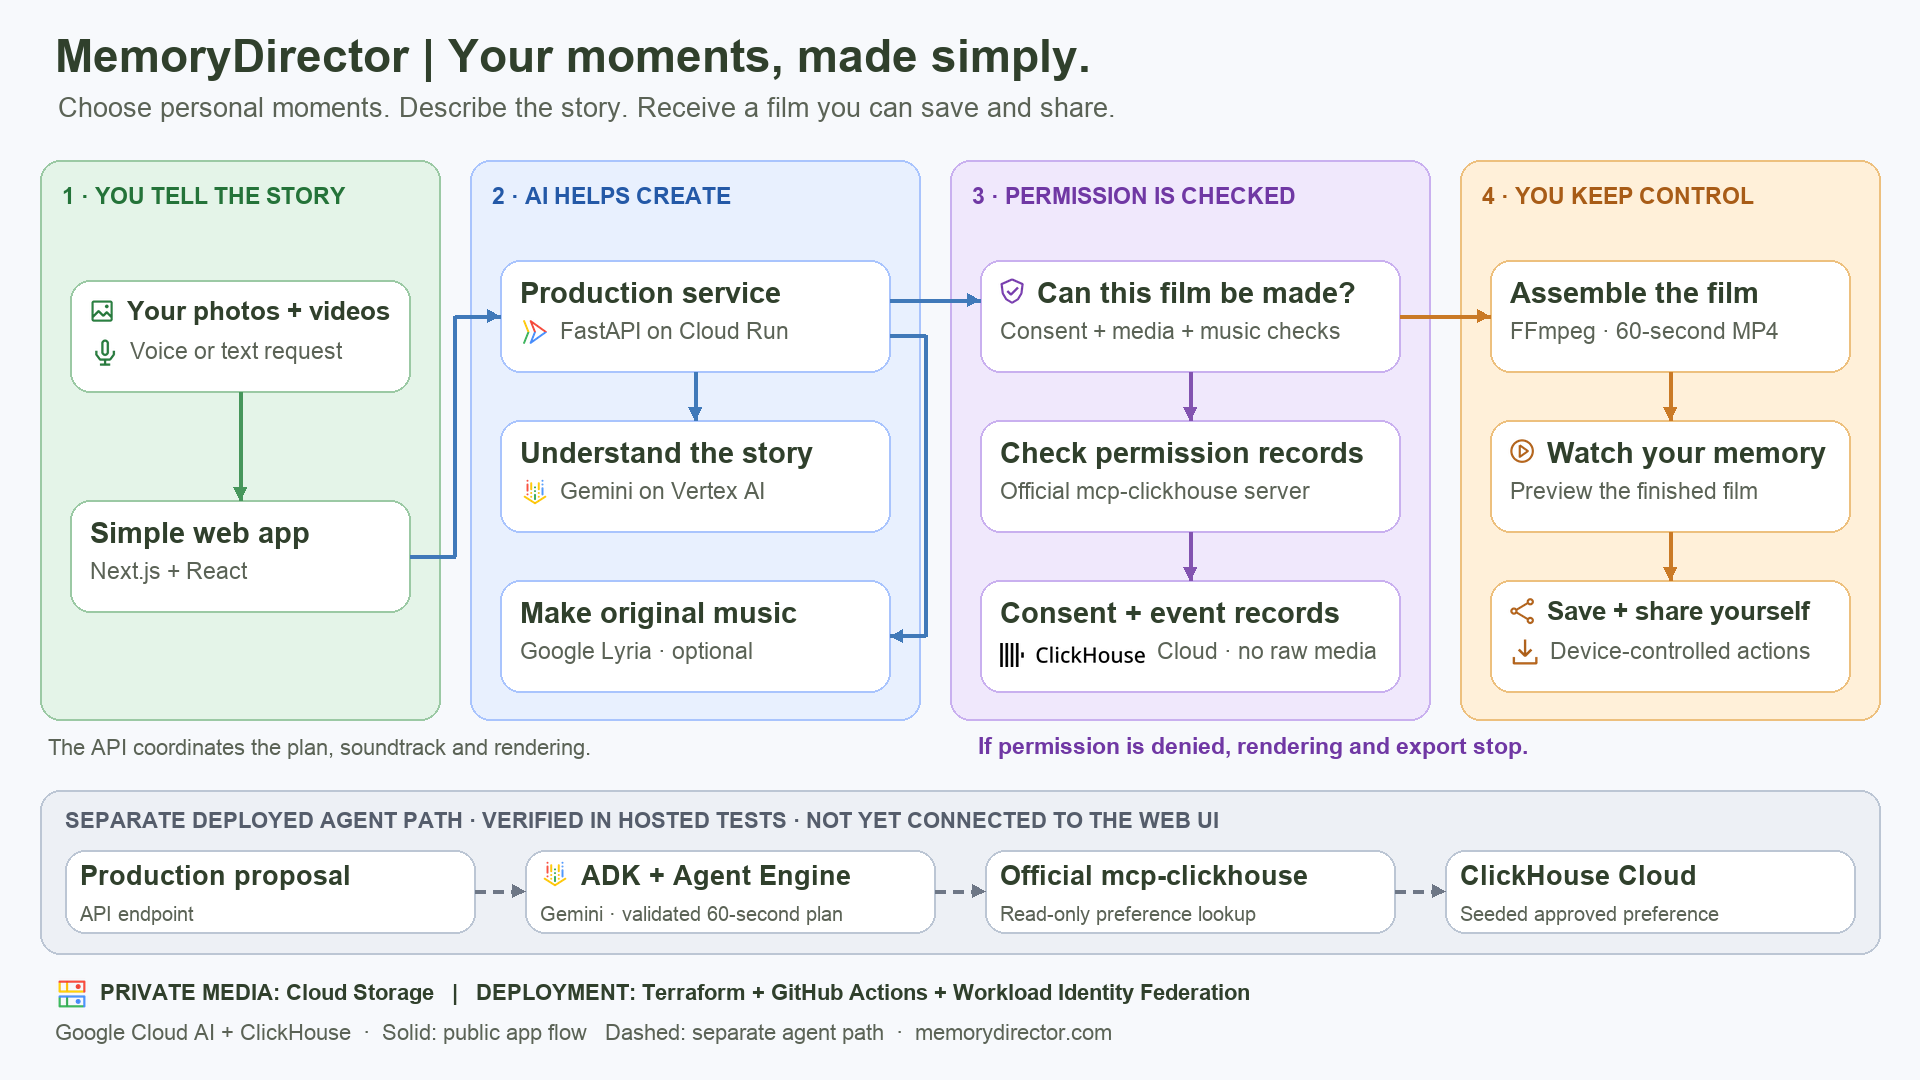
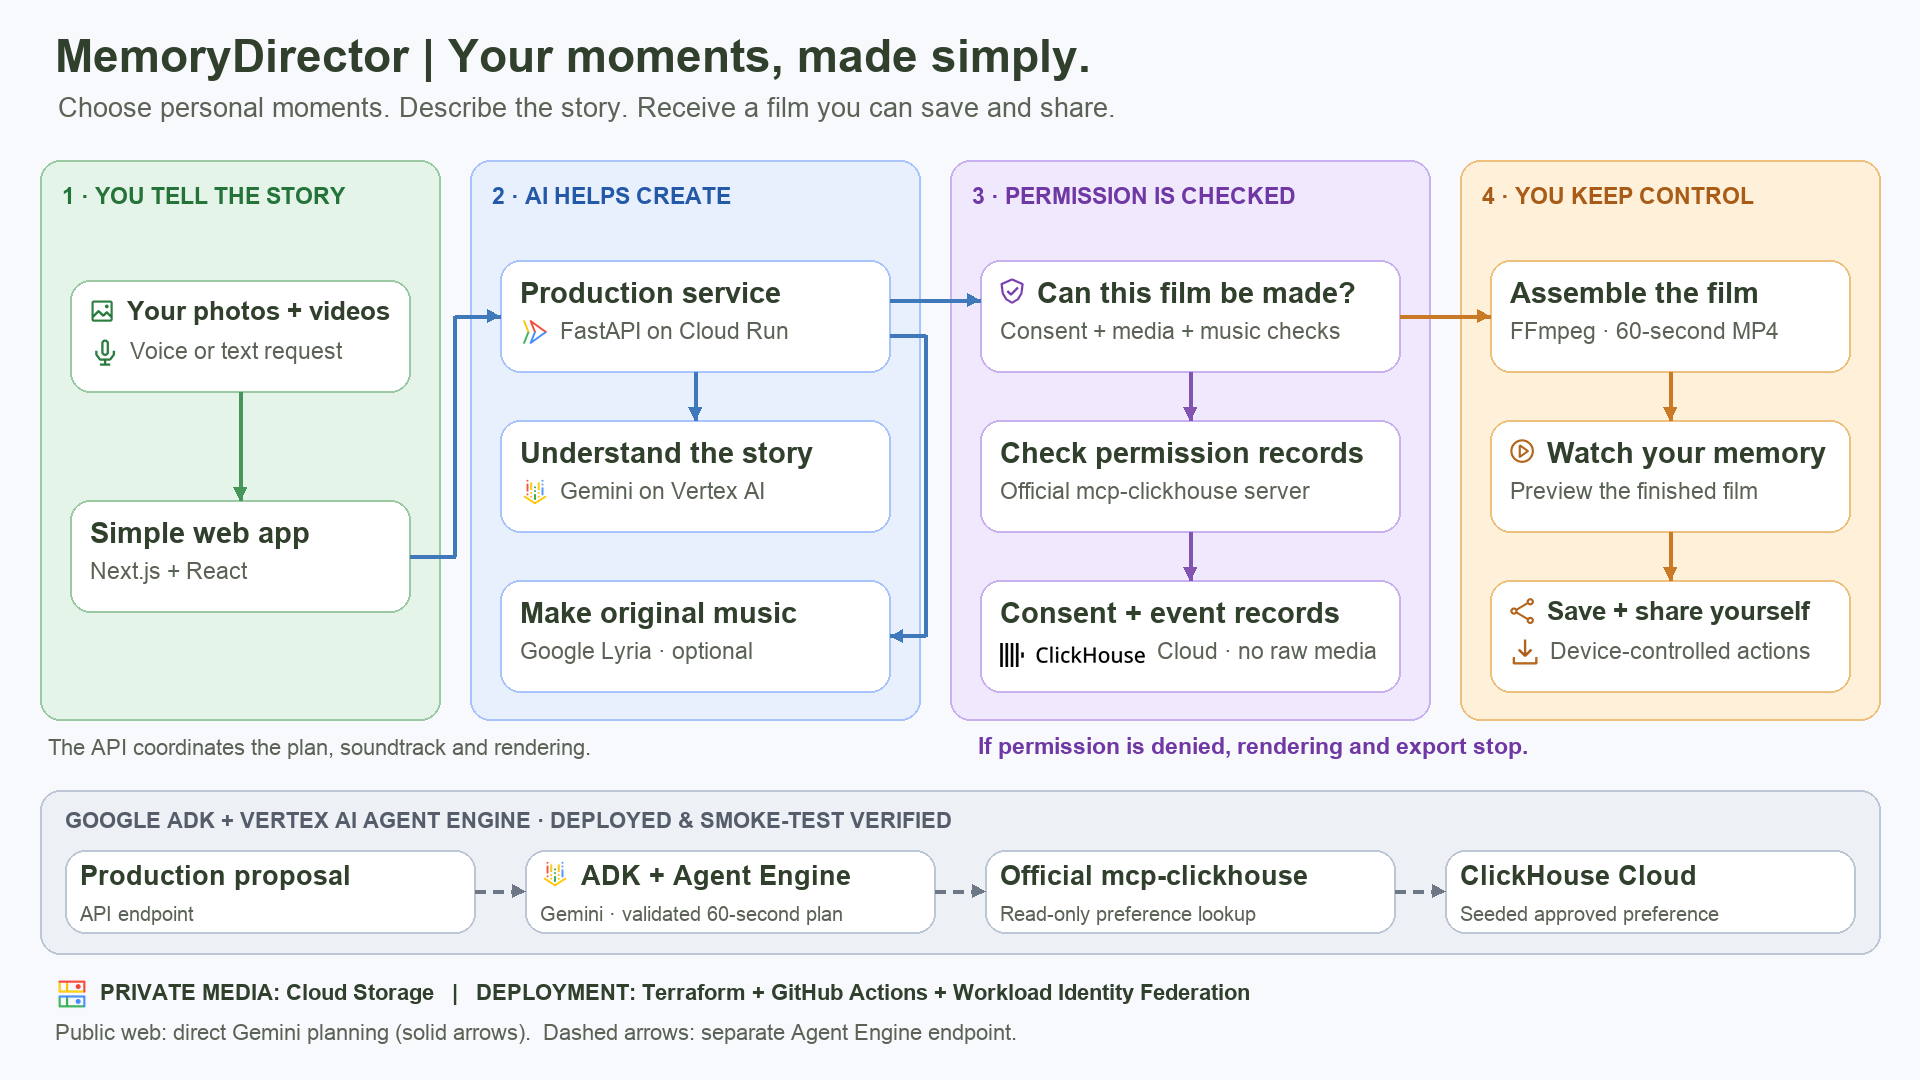
docs: sync latest architecture diagram and guide

Changed region(s): [[0.0312, 0.7333, 0.625, 0.7639], [0.0312, 0.9472, 0.5938, 0.9778]]

diff --git a/README.md b/README.md
@@ -41,8 +41,10 @@ Vertex AI supports media analysis and constrained storyboard planning. The API
 validates the plan before FFmpeg renders the selected source media, with optional
 original music from Google Lyria. Google Cloud AI is the product's only AI provider. The official ClickHouse MCP path checks selected-media
 consent evidence before rendering and again before export. The separately deployed
-ADK / Agent Engine planning endpoint is shown below the main flow; the current web
-interface does not call it.
+Google ADK / Vertex AI Agent Engine planning endpoint is shown below the main flow
+and is labelled **Deployed & smoke-test verified**. Solid arrows show the public
+web path; dashed arrows show the separate Agent Engine endpoint. The current web
+interface does not call that endpoint.
 
 [Read the architecture guide](docs/ARCHITECTURE.md) for the workflow, module
 responsibilities, data boundaries, and verified limitations, or

diff --git a/docs/ARCHITECTURE.md b/docs/ARCHITECTURE.md
@@ -27,9 +27,11 @@ return messages and infrastructure connections for readability. In particular,
 Gemini and Lyria return results to the API; Lyria is not downstream of Gemini as a
 separate autonomous agent.
 
-The grey strip shows a **separate deployed planning endpoint**. Its dashed arrows
-do not mean every web request uses Agent Engine. This endpoint has hosted smoke
-evidence, but the current public web journey uses `/storyboards` directly.
+The grey strip is labelled **Google ADK + Vertex AI Agent Engine · Deployed &
+smoke-test verified** and shows the **separate deployed planning endpoint**. Its
+dashed arrows represent that endpoint's ClickHouse preference lookup, verified
+through hosted deployment smoke tests. The footer distinguishes this from the
+solid-arrow public web path: the current web journey uses `/storyboards` directly.
 
 ### 1. You tell the story
 
